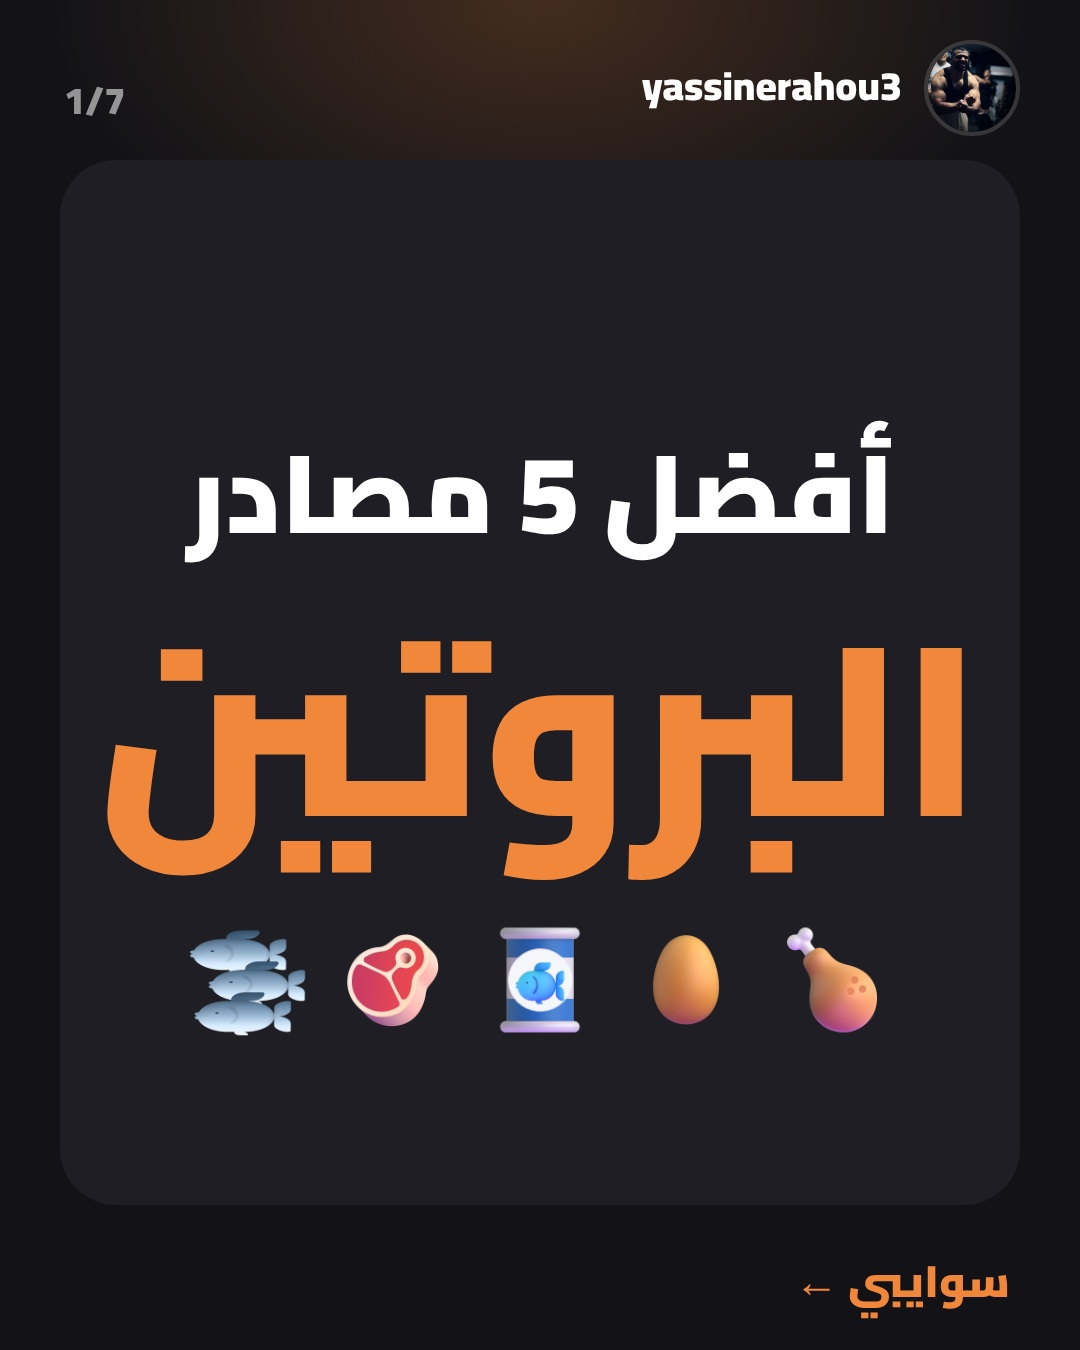
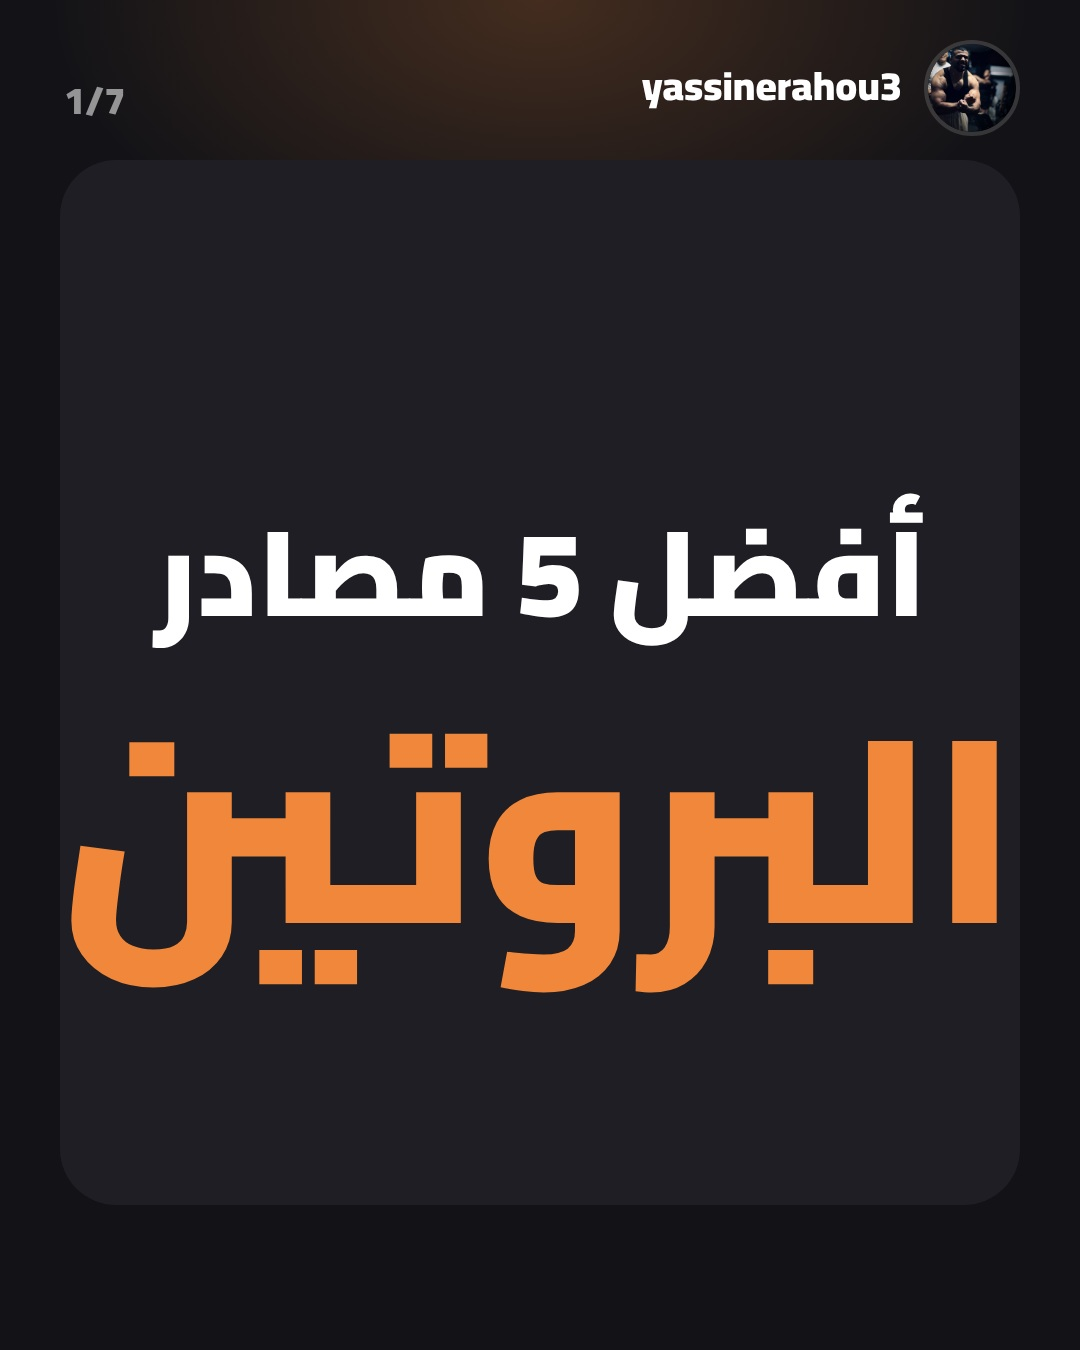
Protein carousel: title-only cover, round tuna can (per can), simpler servings
Claude-Session: https://claude.ai/code/session_014GNevuJ6MBkHeS731WNJp8

Changed region(s): [[0.0611, 0.3111, 0.9472, 0.7778], [0.7944, 0.9333, 0.9472, 0.9956]]

diff --git a/creatine-clip/thumbnails/protein.html b/creatine-clip/thumbnails/protein.html
@@ -38,10 +38,8 @@
   .note { left: 70px; top: 1252px; font-size: 30px; color: rgba(255,255,255,.35); font-weight: 700; }
 
   /* cover */
-  .cover .t1 { font-size: 110px; margin-top: 230px; }
-  .cover .t2 { font-size: 240px; line-height: 1.1; color: var(--or); }
-  .cover .icons { display: flex; gap: 26px; margin-top: 60px; direction: rtl; }
-  .cover .icons img { width: 120px; height: 120px; object-fit: contain; }
+  .cover .t1 { font-size: 120px; margin-top: 300px; }
+  .cover .t2 { font-size: 260px; line-height: 1.1; color: var(--or); }
 
   /* last slide */
   .tip .t { font-size: 120px; color: var(--or); margin-top: 90px; }
@@ -61,13 +59,14 @@
   <div id="content"></div>
 </div>
 <script>
-// Values are approximate (USDA FoodData Central). Images: Fluent Emoji 3D (MIT); tuna can + sardines edited from it.
+// Values are approximate (USDA FoodData Central). Images: Fluent Emoji 3D (MIT); sardines edited from it; tuna.svg drawn for this post.
 const FOODS = [
-  { name: 'صدر الدجاج', img: 'chicken', serving: '100g مطيب', p: '31g', kcal: 165, fat: '3.6g', tag: 'قليل الدهون وغني بالبروتين' },
-  { name: 'البيض', img: 'egg', serving: 'بيضة وحدة', p: '6g', kcal: 72, fat: '4.8g', tag: 'بروتين كامل وساهل فالطياب' },
-  { name: 'الطون', img: 'tuna', serving: '100g مصفي (طون فالما)', p: '26g', kcal: 116, fat: '0.8g', tag: 'إلا كان فالزيت: 198 سعرة و 8g دهون' },
-  { name: 'اللحم', img: 'meat', serving: '100g لحم بقري قليل الدهون', p: '26g', kcal: 217, fat: '12g', tag: 'غني بالبروتين والحديد' },
-  { name: 'السردين', img: 'sardines', serving: '100g (حك فالزيت، مصفي)', p: '25g', kcal: 208, fat: '11g', tag: 'غني بالأوميغا 3' },
+  { name: 'صدر الدجاج', img: 'chicken.png', serving: '100g طايب', p: '31g', kcal: 165, fat: '3.6g', tag: 'قليل الدهون وغني بالبروتين' },
+  { name: 'البيض', img: 'egg.png', serving: 'بيضة وحدة', p: '6g', kcal: 72, fat: '4.8g', tag: 'بروتين كامل وساهل فالطياب' },
+  // tuna: one round can, ~120g drained, in oil
+  { name: 'الطون', img: 'tuna.svg', serving: 'علبة طون', p: '35g', kcal: 238, fat: '10g', tag: 'ساهل وجاهز فأي وقت' },
+  { name: 'اللحم', img: 'meat.png', serving: '100g لحم بقري قليل الدهون', p: '26g', kcal: 217, fat: '12g', tag: 'غني بالبروتين والحديد' },
+  { name: 'السردين', img: 'sardines.png', serving: '100g', p: '25g', kcal: 208, fat: '11g', tag: 'غني بالأوميغا 3' },
 ];
 const N = FOODS.length + 2;
 const slide = +(new URLSearchParams(location.search).get('slide') || 1);
@@ -76,12 +75,10 @@ const add = (cls, html) => { const d = document.createElement('div'); d.classNam
 document.querySelector('.count').textContent = `${slide}/${N}`;
 
 if (slide === 1) {
-  add('card cover', `<div class="t1">أفضل 5 مصادر</div><div class="t2">البروتين</div>
-    <div class="icons">${FOODS.map((f) => `<img src="../food3d/${f.img}.png">`).join('')}</div>`);
-  add('swipe', 'سوايبي ←');
+  add('card cover', `<div class="t1">أفضل 5 مصادر</div><div class="t2">البروتين</div>`);
 } else if (slide <= FOODS.length + 1) {
   const f = FOODS[slide - 2];
-  add('card', `<div class="img"><img src="../food3d/${f.img}.png"></div><div class="nm">${f.name}</div><div class="sv">${f.serving}</div>
+  add('card', `<div class="img"><img src="../food3d/${f.img}"></div><div class="nm">${f.name}</div><div class="sv">${f.serving}</div>
     <div class="big">${f.p}</div><div class="lb">بروتين</div>
     <div class="pill"><span class="l">${f.kcal} kcal</span> · ${f.fat} دهون</div><div class="tag">${f.tag}</div>`);
   add('note', 'القيم تقريبية');
